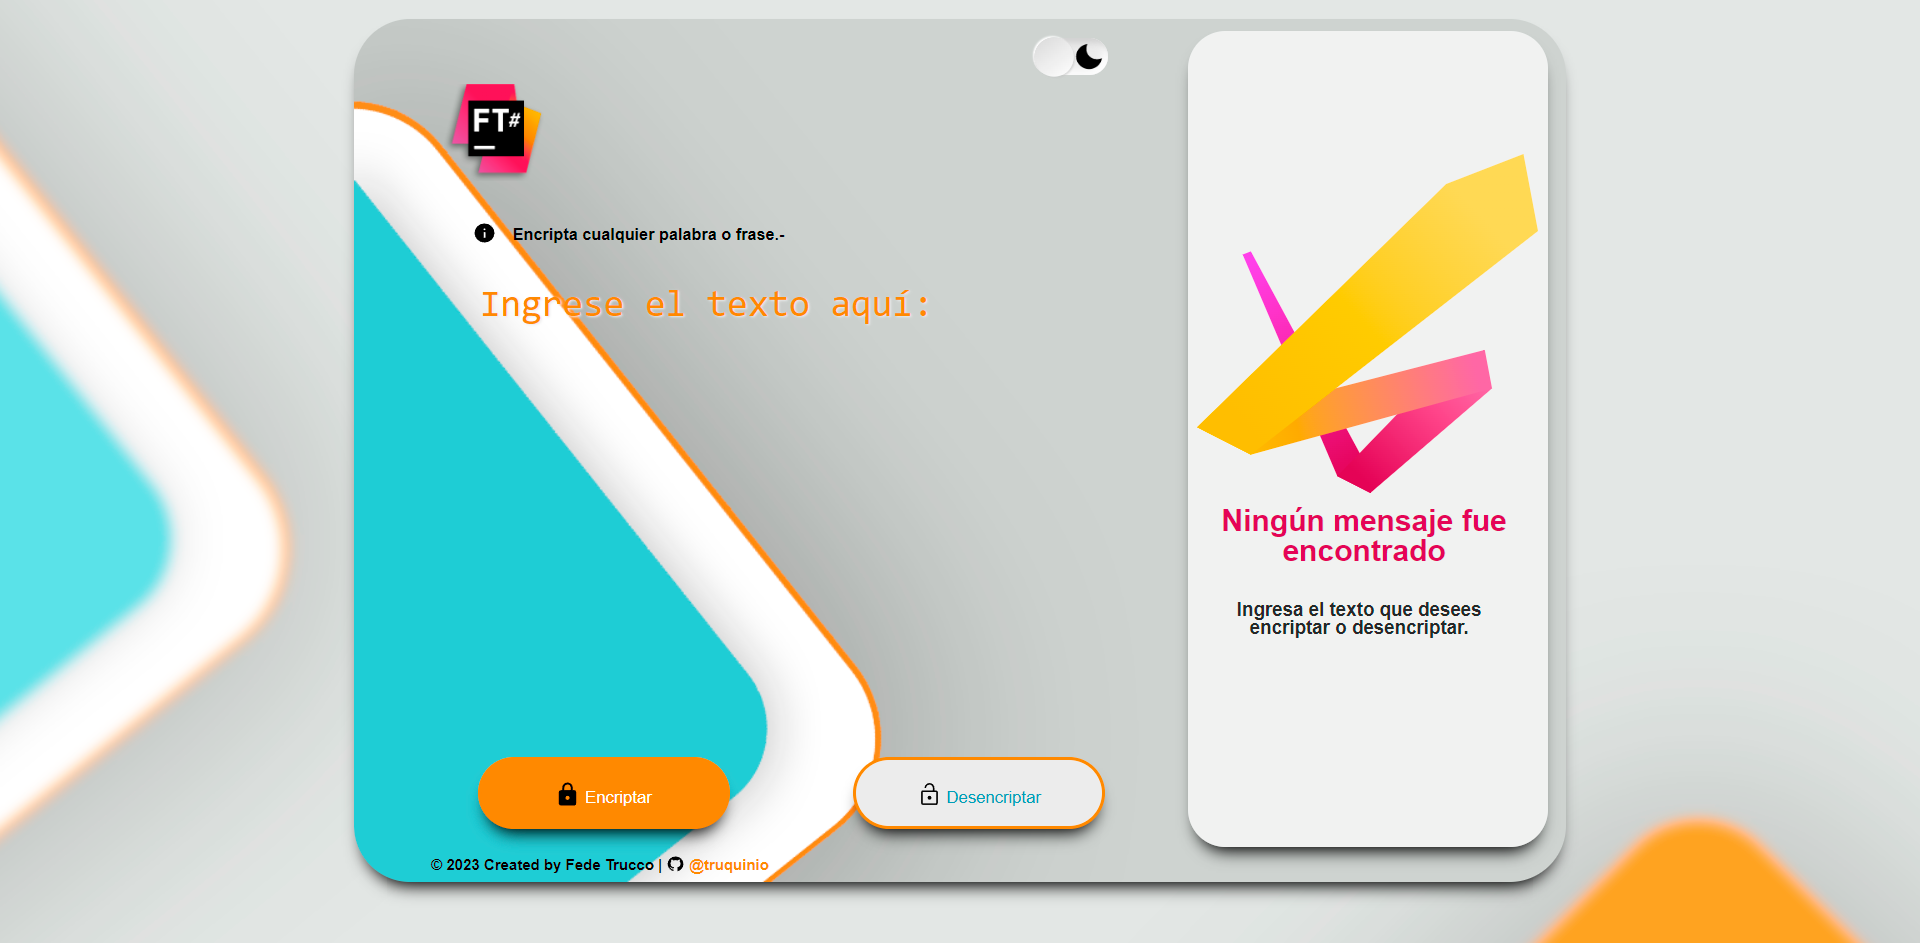
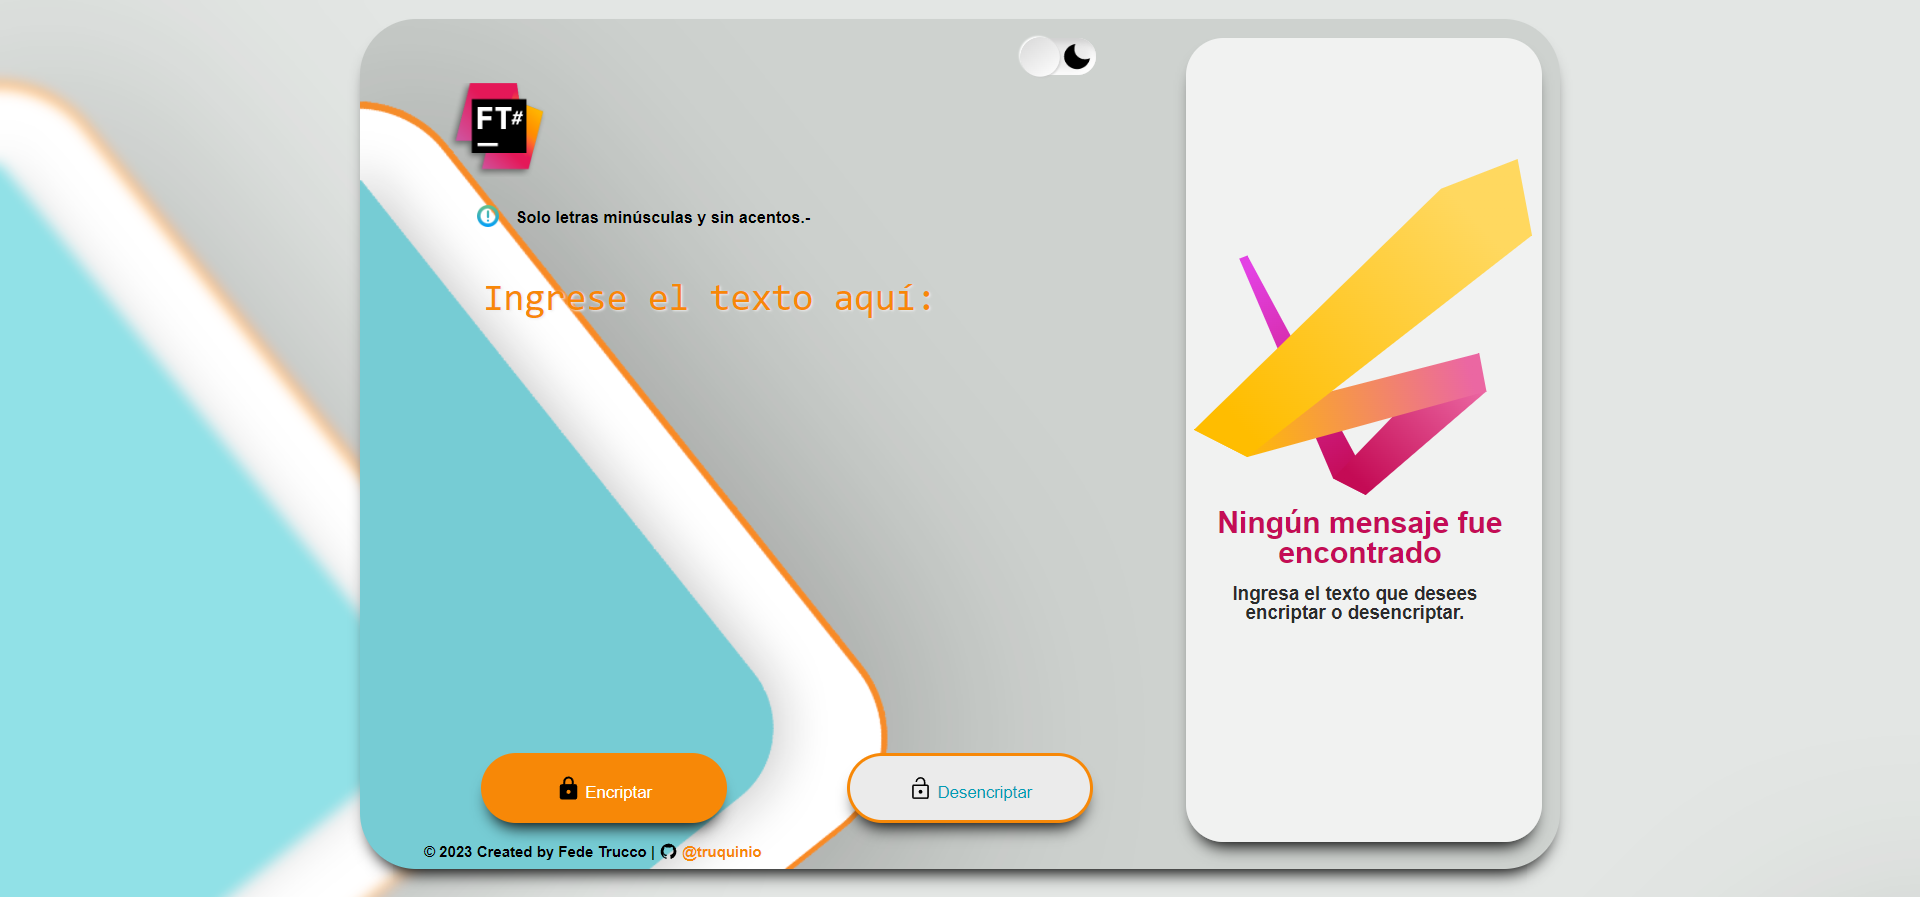
13/01/2023 | Update Encryptor

diff --git a/style.css b/style.css
@@ -397,7 +397,7 @@ body {
 #footer {
   position: relative;
   bottom: -54em;
-  right: 62%;
+  right: 50%;
 
   font-size: 12px;
   font-weight: bold;
@@ -520,8 +520,8 @@ body.active {
 /*    >>>>>>>>>>>>>>>>>>>>>>>>>>>>>>>>  RESPONSIVE  >>>>>>>>>>>>>>>>>>>>>>>>>>>>>>>>  */
 
 
-/*  TABLETS hasta 768px  >>>>>>>>>>>>>>>>>>>>>>>>>>>>>>>>  */
-@media screen and (max-width:768px) {
+/*  TABLETS hasta 912px  >>>>>>>>>>>>>>>>>>>>>>>>>>>>>>>>  */
+@media screen and (max-width: 912px) and (min-width:393px) {
 
   * {
     height: 1vh;
@@ -589,6 +589,7 @@ body.active {
 
   #darkmode {
     position: absolute;
+    right: 1em;
     transform: scale(1.1);
   }
 
@@ -658,7 +659,7 @@ body.active {
     width: 95%;
     height: 350px;
 
-    font-size: 50px;
+    font-size: 35px;
     line-height: 70px;
 
     text-align: center;
@@ -692,7 +693,7 @@ body.active {
     width: 50%;
     height: 100px;
 
-    font-size: 25px;
+    font-size: 20px;
 
     margin: 0 10px 0 0;
     padding: 0;
@@ -700,7 +701,7 @@ body.active {
 
   #encripta img {
     margin-right: 3%;
-    transform: scale(1.9);
+    transform: scale(1.8);
   }
 
   #encripta:hover {
@@ -711,7 +712,7 @@ body.active {
     width: 50%;
     height: 100px;
 
-    font-size: 25px;
+    font-size: 20px;
 
     margin: 0 0 0 10px;
     padding: 0;
@@ -719,7 +720,7 @@ body.active {
 
   #desencripta img {
     margin-right: 3%;
-    transform: scale(1.9);
+    transform: scale(1.8);
   }
 
   #desencripta:hover {
@@ -762,7 +763,7 @@ body.active {
     margin: 0px auto;
     padding: 0;
 
-    font-size: 50px;
+    font-size: 40px;
 
     width: 100%;
     height: auto;
@@ -774,7 +775,7 @@ body.active {
     margin: 3% auto;
     padding: 0;
 
-    font-size: 30px;
+    font-size: 20px;
 
     width: 90%;
     height: auto;
@@ -803,7 +804,7 @@ body.active {
 
   #copiar {
     position: absolute;
-    top: 10em;
+    top: 13em;
     left: 5%;
 
 
@@ -813,13 +814,13 @@ body.active {
     width: 90%;
     height: 80px;
 
-    font-size: 25px;
+    font-size: 20px;
 
     visibility: hidden;
   }
 
   #copiar img {
-    transform: scale(2)
+    transform: scale(1.8)
   }
 
   #copiar:hover {
@@ -828,7 +829,7 @@ body.active {
 
   #footer {
     position: absolute;
-    top: 48em;
+    top: 65em;
     left: 0%;
 
     text-align: center;
@@ -837,7 +838,7 @@ body.active {
 
     width: 100%;
 
-    font-size: 23px;
+    font-size: 17px;
 
     /* background: #c40c56; */
   }
@@ -853,8 +854,11 @@ body.active {
 
 
 
-/*  CELULARES hasta 375px  >>>>>>>>>>>>>>>>>>>>>>>>>>>>>>>>  */
-@media screen and (max-width:375px) {
+/*  CELULARES hasta 394px  >>>>>>>>>>>>>>>>>>>>>>>>>>>>>>>>  */
+/* @media screen and (max-width:394px) { */
+
+  @media screen and (max-width: 393px) and (min-width:100px) {
+
 
   * {
     height: 1vh;
@@ -924,6 +928,7 @@ body.active {
 
   #darkmode {
     position: absolute;
+    right: -0em;
     transform: scale(1);
   }
 
@@ -1142,15 +1147,14 @@ body.active {
 
   #copiar {
     position: absolute;
-    top: 10.5em;
+    top: 11em;
     left: 5%;
-
 
     margin: 0px auto;
     padding: 0;
 
     width: 90%;
-    height: 80px;
+    height: 65px;
 
     font-size: 20px;
 
@@ -1167,7 +1171,7 @@ body.active {
 
   #footer {
     position: absolute;
-    top: 65em;
+    top: 70em;
     left: 0%;
 
     text-align: center;
@@ -1176,7 +1180,7 @@ body.active {
 
     width: 100%;
 
-    font-size: 14px;
+    font-size: 13px;
 
     /* background: #c40c56; */
   }

diff --git a/index.html b/index.html
@@ -25,7 +25,7 @@
     <body style="overflow-y:hidden"> <----Borra barra vertical
     <body scroll=no> <- Borra barras -->
 
-<body>
+<body style="overflow-y:hidden">
   <!-- <header>
     <h1>Título</h1>
   </header> -->
@@ -46,11 +46,12 @@
       <div class="leftBox">
 
         <div class="informacion">
-          <img src="./img/info.svg"><text id="info">Encripta cualquier palabra o frase.-</text>
+          <img src="./img/alerta.png"><text id="info">Solo letras minúsculas y sin acentos.-</text>
         </div>
 
         <div class="input">
-          <textarea name="texto1" id="texto" placeholder="Ingrese el texto aquí:" autofocus></textarea>
+          <!-- <textarea name="texto1" id="texto" placeholder="Ingrese el texto aquí:" autofocus></textarea> -->
+          <textarea name="texto1" id="texto" oninput="this.value = this.value.replace(/[^a-z]/,'')" placeholder="Ingrese el texto aquí:" autofocus></textarea>
         </div>
 
         <div class="botones">
@@ -65,36 +66,40 @@
 
         <div class="output">
           <div class="pictureText" id="noResuelto">
+            <div class="no-encontrado" id="no-encontrado">
+              <div class="picture">
+                <img src="./img/fondo.svg" alt="imagen">
+              </div>
 
-            <div class="picture">
-              <img src="./img/fondo.svg" alt="imagen">
+              <h2>Ningún mensaje fue encontrado</h2>
+              <p>Ingresa el texto que desees encriptar o desencriptar.</p>
             </div>
-
-            <h2>Ningún mensaje fue encontrado</h2>
-            <p>Ingresa el texto que desees encriptar o desencriptar.</p>
           </div>
 
           <div class="success" id="resuelto">
             <textarea name="texto2" id="textoResultado" disabled></textarea>
             <button id="copiar" type="button"><img src="./img/copy.svg"> Copiar</button>
           </div>
+
+
         </div>
       </div>
+    </div>
 
-      <div id="footer">
-        <p id="copyright">© 2023 Created by Fede Trucco | <a
-            href="https://github.com/truquinio/alura-challenge-1-Encriptador" target="_blank"
-            rel="nofollow noopener noreferrer"><img src="./img/github.svg" alt="github"> @truquinio</a></p>
-      </div>
+    <!-- <div id="footer">
+      <p id="copyright">© 2023 Created by Fede Trucco | <a
+          href="https://github.com/truquinio/alura-challenge-1-Encriptador" target="_blank"
+          rel="nofollow noopener noreferrer"><img src="./img/github.svg" alt="github"> @truquinio</a></p>
+    </div> -->
+    </div>
     </div>
   </main>
 
-  <!-- <footer>
+  <footer id="footer">
     <p id="copyright">© 2023 Created by Fede Trucco | <a href="https://github.com/truquinio/alura-challenge-1-Encriptador" target="_blank"
       rel="nofollow noopener noreferrer"><img src="./img/github.svg" alt="github"> @truquinio</a></p>
-  </footer> -->
-  <script src="./js/script.js"></script>
-  <script src="./js/toggle.js"></script>
+  </footer>
+  <script src="./js/script.js" type="text/javascript"></script>
+  <script src="./js/toggle.js" type="text/javascript"></script>
 </body>
-
 </html>

diff --git a/js/script.js b/js/script.js
@@ -19,48 +19,46 @@ const btnEncriptar = document.querySelector("#encripta");
 const btnDesencriptar = document.querySelector("#desencripta");
 const btnCopiar = document.querySelector("#copiar");
 
-function encriptar (){
-  let texto = textoIngresado.value.toLowerCase();
-  let textoEncriptado = texto
-  .replaceAll("e", "enter")
-  .replaceAll("i", "imes")
-  .replaceAll("o", "ober")
-  .replaceAll("a", "ai")
-  .replaceAll("u", "ufat");
+  function encriptar() {
+    let texto = textoIngresado.value.toLowerCase();
+    let textoEncriptado = texto
+      .replaceAll("e", "enter")
+      .replaceAll("i", "imes")
+      .replaceAll("o", "ober")
+      .replaceAll("a", "ai")
+      .replaceAll("u", "ufat");
 
-  document.getElementById("noResuelto").style.visibility = "hidden";
-  document.getElementById("copiar").style.visibility = "visible";
+    document.getElementById("noResuelto").style.visibility = "hidden";
+    document.getElementById("copiar").style.visibility = "visible";
 
-  textoResultado.value = textoEncriptado;
+    textoResultado.value = textoEncriptado;
 
-  document.getElementById("texto").value = '';
+    document.getElementById("texto").value = '';
+  }
 
-}
+  function desencriptar() {
+    let textoEncriptado = textoIngresado.value.toLowerCase();
+    let texto = textoEncriptado
+      .replaceAll("enter", "e")
+      .replaceAll("imes", "i")
+      .replaceAll("ober", "o")
+      .replaceAll("ai", "a")
+      .replaceAll("ufat", "u");
 
-function desencriptar (){
-  let textoEncriptado = textoIngresado.value.toLowerCase();
-  let texto = textoEncriptado
-  .replaceAll("enter", "e")
-  .replaceAll("imes", "i")
-  .replaceAll("ober", "o")
-  .replaceAll("ai", "a")
-  .replaceAll("ufat", "u");
+    document.getElementById("noResuelto").style.visibility = "hidden";
+    document.getElementById("copiar").style.visibility = "visible";
 
-  document.getElementById("noResuelto").style.visibility = "hidden";
-  document.getElementById("copiar").style.visibility = "visible";
+    textoResultado.value = texto;
 
-  textoResultado.value = texto;
+    document.getElementById("texto").value = '';
 
-  document.getElementById("texto").value = '';
+  }
 
-}
+  function copiar() {
+    let textoEncriptado = textoResultado.value;
+    navigator.clipboard.writeText(textoEncriptado);
+  }
 
-function copiar () {
-  let textoEncriptado = textoResultado.value;
-  navigator.clipboard.writeText(textoEncriptado);
-}
-
-btnEncriptar.onclick = encriptar;
-btnDesencriptar.onclick = desencriptar;
-
-btnCopiar.onclick = copiar;
+  btnEncriptar.onclick = encriptar;
+  btnDesencriptar.onclick = desencriptar;
+  btnCopiar.onclick = copiar;

diff --git a/README.md b/README.md
@@ -12,9 +12,9 @@
 - El resultado se muestra en la pantalla.
 - Posée un botón que copia el texto encriptado/desencriptado para la sección de transferencia, teniendo la misma funcionalidad del ctrl+C o de la opción "copiar" del menú de las aplicaciones.
 
-<h2>⚙ Tecnologías utilizadas:</h2>
+<h2>⚙ Tecnologías utilizadas</h2>
 
-![html5](/img/html5.png)
+![html5](/img/html5.png) 
 ![css3](/img/css-3.png)
 ![js](/img/js.png)
 
